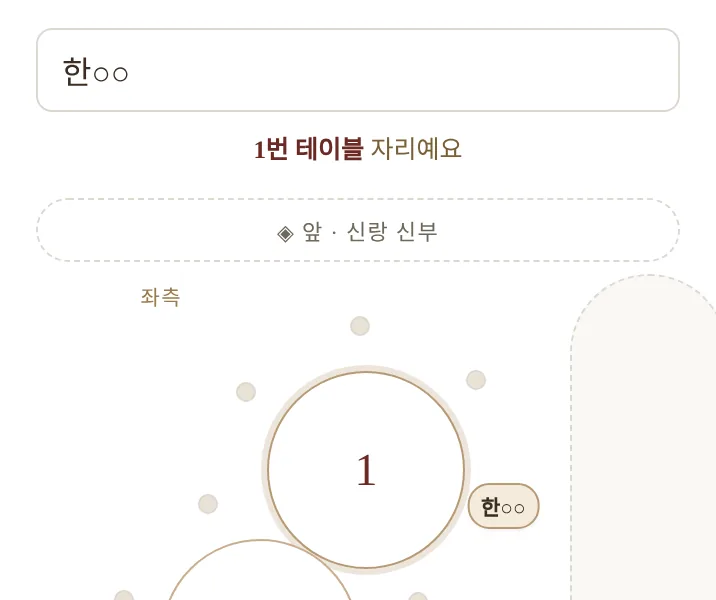
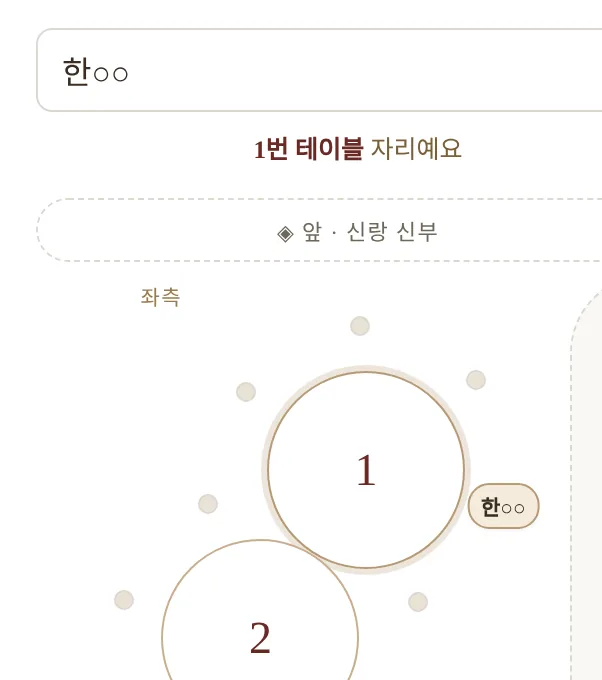
SEAT_EX_POLISH 하객 화면 예시 다듬기 · 테이블 이름 바꾸기 걷기 [SEAT_EX_POLISH · SEAT_NO_RENAME]
사장님 11/22 «디자이너 입장에서 한번 더» · «테이블번호를 굳이 수정할 필요는 없을 것 같아»
- PC 는 공개 방식 두 칸을 나란히(같은 높이 · 같은 크기 그림) · 폰은 위아래
- 예시 그림: 버진로드 띠 앞에서 자르고(반쯤 걸린 점선 덩어리 빼기) 원래 비율 그대로 · 아래 · 오른쪽 잘린 가장자리는 흐리게 · «내 자리만» 그림에서 내 자리 알약이 끝까지 보이게
- 좌석 편집기 테이블 원은 번호만 · 눌러서 «테이블 1» 이름 바꾸기 없음(seat-onecard 옛 기대 은퇴)

Claude-Session: https://claude.ai/code/session_01NQtafo1FptWSLeajnVdWxq

diff --git a/mypage.html b/mypage.html
@@ -1733,7 +1733,13 @@ input,textarea,select,[contenteditable]:not([contenteditable="false"]){caret-col
     .sp-opt .sp-d{display:block;font-size:11px;color:var(--sub);margin-top:3px;line-height:1.5;word-break:keep-all;text-wrap:pretty}   /* 마지막 줄에 «보여요» 한 낱말만 떨어지지 않게 */
     .sp-opt .sp-ex{display:block;margin-top:9px}   /* [SEAT_EX_SHOT] 하객 화면 예시 — 두 칸이 같은 크기 · 같은 자리 */
     .sp-opt .sp-ex-c{display:block;font-size:10px;letter-spacing:.04em;color:var(--label-soft);margin-bottom:4px}
-    .sp-opt .sp-ex img{display:block;width:100%;max-width:320px;height:auto;aspect-ratio:358/300;border:1px solid var(--border);border-radius:8px;background:#FAF8F4}
+    /* ★[SEAT_EX_POLISH 2026-11-22 사장님 «디자이너 입장에서 한번 더»] ① PC 는 두 칸을 나란히(같은 높이 · 같은 크기 그림 — 한 자리를 두 방식으로 견주는 그림이다)
+       ② 그림은 칸 폭을 채우고 위에서부터 같은 높이로 · 아래는 칼로 자르지 않고 흐리게 닫는다 ③ 오른쪽 버진로드 띠는 찍을 때 뺐다(정체 모를 점선 덩어리로 읽혔다) */
+    .sp-opt .sp-ex-f{display:block;max-width:250px;border:1px solid var(--border);border-radius:10px;background:#fff;overflow:hidden}
+    .sp-opt .sp-ex img{display:block;width:100%;height:auto;aspect-ratio:301/340;-webkit-mask-image:linear-gradient(#000 78%,transparent),linear-gradient(to right,#000 93%,transparent);-webkit-mask-composite:source-in;mask-image:linear-gradient(#000 78%,transparent),linear-gradient(to right,#000 93%,transparent);mask-composite:intersect}   /* 위를 잘라 높이를 맞추면 «내 자리만» 그림에서 정작 내 자리 알약이 잘렸다 → 원래 비율 그대로 · 폭만 250 · 아래 · 오른쪽 잘린 가장자리는 흐리게(더 넓은 화면의 한 부분으로 읽히게) */
+    .seat-privacy .sp-opts{display:grid;gap:8px;margin-bottom:8px}
+    .seat-privacy .sp-opts .sp-opt{margin-bottom:0}
+    @media(min-width:640px){ .seat-privacy .sp-opts{grid-template-columns:1fr 1fr} }
     .seat-privacy .sp-note{text-align:center;font-size:11px;color:var(--label-soft);margin-top:2px}
     /* 단체사진·스냅 칩 CSS는 전용화면 블록(.ph-list 근처)으로 단일화 — 구 f83da9b .ph-chip 규칙 제거(중복·구 스타일이 새 디자인을 덮던 문제 2026-07-19 병합) */
     /* 자리 편집 중 음료 선택 바 — '지금 이 자리를 편집 중' 신호로 골드 톤(중립 베이지 요약 카드와 위계 구분 · 2026-07-19 디자이너 개편) */
@@ -13217,10 +13223,9 @@ function renderSeat(box){
       +(f?'<span class="rs-nm">'+escapeHtml(nm)+'</span>':(fam?'<span class="rs-fam" aria-hidden="true">혼주</span>':'<span class="rs-add" aria-hidden="true">＋</span>'))+dot+'</button>';
   }
   function tableIn(t, ti, no){
-    // 원 안 = 번호(누르면 테이블 이름 정하기) + 부부가 붙인 이름(작게 · 두 줄까지) — 이웃 테이블과 맞닿아 원 아래 줄([SEAT_FIT] rt-cap)을 둘 자리가 없다
-    var _cn=String(t.name||'').trim(), _hasCn=!!(_cn && !/^테이블\s*\d+$/.test(_cn));
-    if(isEd(ti,'name')) return '<input class="rt-cin" data-ed data-edk="'+ti+':name" value="'+escapeHtml(t.name||'')+'" maxlength="24" autocomplete="off" placeholder="테이블 이름" aria-label="'+no+'번 테이블 이름">';
-    return '<button type="button" class="rt-c rt-cbtn" data-seat-edit data-ti="'+ti+'" data-si="name" aria-label="'+no+'번 테이블 이름 정하기"><span class="rt-num">'+no+'</span>'+(_hasCn?'<span class="rt-cn">'+escapeHtml(_cn)+'</span>':'')+'</button>';
+    /* ★테이블 이름 정하기(번호를 누르면 «테이블 1» 입력칸) 금지 — 2026-11-22 사용자 지시로 삭제([SEAT_NO_RENAME] 사장님 «테이블번호를 굳이 수정할 필요는 없을 것 같아»).
+       번호(좌 1 ~ 4 · 우 5 ~ 9)는 확정 배치의 이름이다 — 하객 좌석표 · 하객 안내 · 스태프 A4 가 같은 번호로 부른다. 원은 번호만 보이고 눌리지 않는다. */
+    return '<span class="rt-c" aria-hidden="true"><span class="rt-num">'+no+'</span></span>';
   }
   /* ★테이블 아래 ＋ － ✕(자리 추가 · 줄이기 · 테이블 삭제) · «+ 테이블» 금지 — 2026-11-22 사용자 지시로 삭제([SEAT_PLAN_9]).
      테이블 9개 · 35석은 공간 설계로 정해진 배치라 부부가 바꾸면 실제 홀과 어긋난다 · 빈 자리는 비워 두면 된다.
@@ -13287,10 +13292,10 @@ function renderSeat(box){
   var _mine=(s.gi&&s.gi.seatMode==='mine'), _giDis=(s.gi&&s.gi._saving)?' style="opacity:.5;pointer-events:none"':'';
   /* ★[SEAT_EX_SHOT 2026-11-22 사장님 «하객 입장에서 보여주는 게 이해가 더 쉬울 것 같아»] 두 칸마다 하객 화면 예시 그림 하나(seat.html 실화면 · 예시 성함 «성 + ○○»)
      그림은 scripts/seat-example-shots.mjs 가 찍는다(배치도를 바꾸면 다시 찍는다) · 그림을 눌러도 그 칸이 골라진다(label 안) · 설명은 위 글이 하니 그림은 화면낭독기에서 덮는다 */
-  function _spEx(k){ return '<span class="sp-ex" aria-hidden="true"><span class="sp-ex-c">하객 화면 예시</span><img src="/assets/seat/ex-'+k+'.webp?v=1122" alt="" width="358" height="300" loading="lazy" decoding="async"></span>'; }
-  var privacyHtml='<div class="seat-privacy"'+_giDis+'><div class="sp-q">하객분들께 어떻게 보여드릴까요?</div>'
+  function _spEx(k){ return '<span class="sp-ex" aria-hidden="true"><span class="sp-ex-c">하객 화면 예시</span><span class="sp-ex-f"><img src="/assets/seat/ex-'+k+'.webp?v=1122b" alt="" width="301" height="340" loading="lazy" decoding="async"></span></span>'; }
+  var privacyHtml='<div class="seat-privacy"'+_giDis+'><div class="sp-q">하객분들께 어떻게 보여드릴까요?</div><div class="sp-opts">'
     +'<label class="sp-opt'+(_mine?'':' on')+'"><input type="radio" name="seatmode" value="all"'+(_mine?'':' checked')+'><span class="sp-t">전체 공개 <span class="sp-tag">좌석표</span></span><span class="sp-d">성함이 보이는 좌석표 · 하객이 검색 없이 자기 자리를 바로 봐요</span>'+_spEx('all')+'</label>'
-    +'<label class="sp-opt'+(_mine?' on':'')+'"><input type="radio" name="seatmode" value="mine"'+(_mine?' checked':'')+'><span class="sp-t">내 자리만 검색</span><span class="sp-d">각자 이름을 검색해 자기 자리만 · 다른 분 성함은 안 보여요</span>'+_spEx('mine')+'</label>'
+    +'<label class="sp-opt'+(_mine?' on':'')+'"><input type="radio" name="seatmode" value="mine"'+(_mine?' checked':'')+'><span class="sp-t">내 자리만 검색</span><span class="sp-d">각자 이름을 검색해 자기 자리만 · 다른 분 성함은 안 보여요</span>'+_spEx('mine')+'</label></div>'
     +'<div class="sp-note">고르면 바로 저장돼요</div></div>'
     /* ★★[SEAT_NOTE 2026-08-16 사용자 지시 "추천대로"] 「미리 알려주실 것」 — 되살린 것이 아니라 **끊긴 것을 이은 것**이다.
        2026-07-19 에 최종확정 위저드를 좌석 화면으로 합치면서 인원·음료는 옮겨졌는데 이 칸만 따라오지 못했다.
